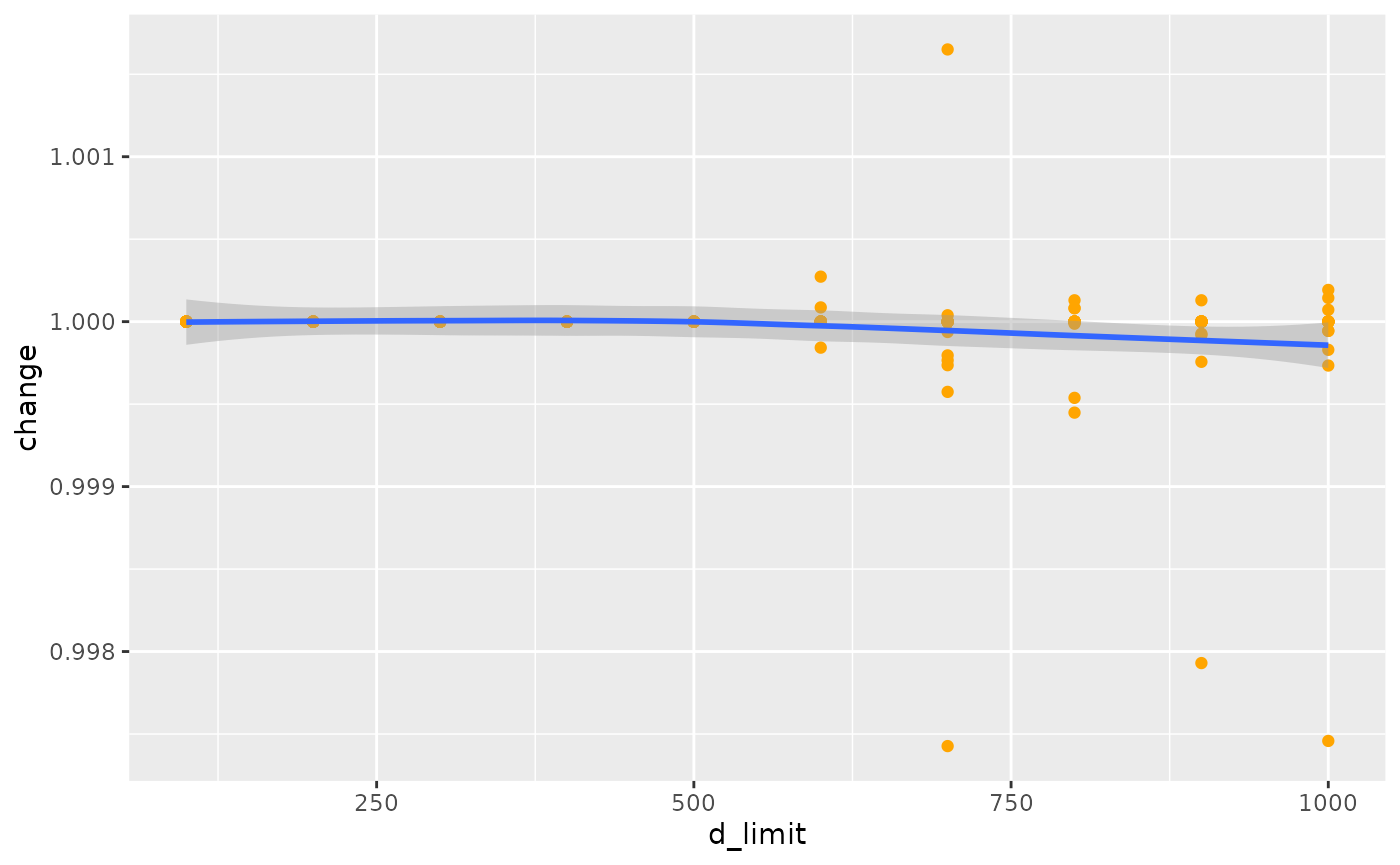
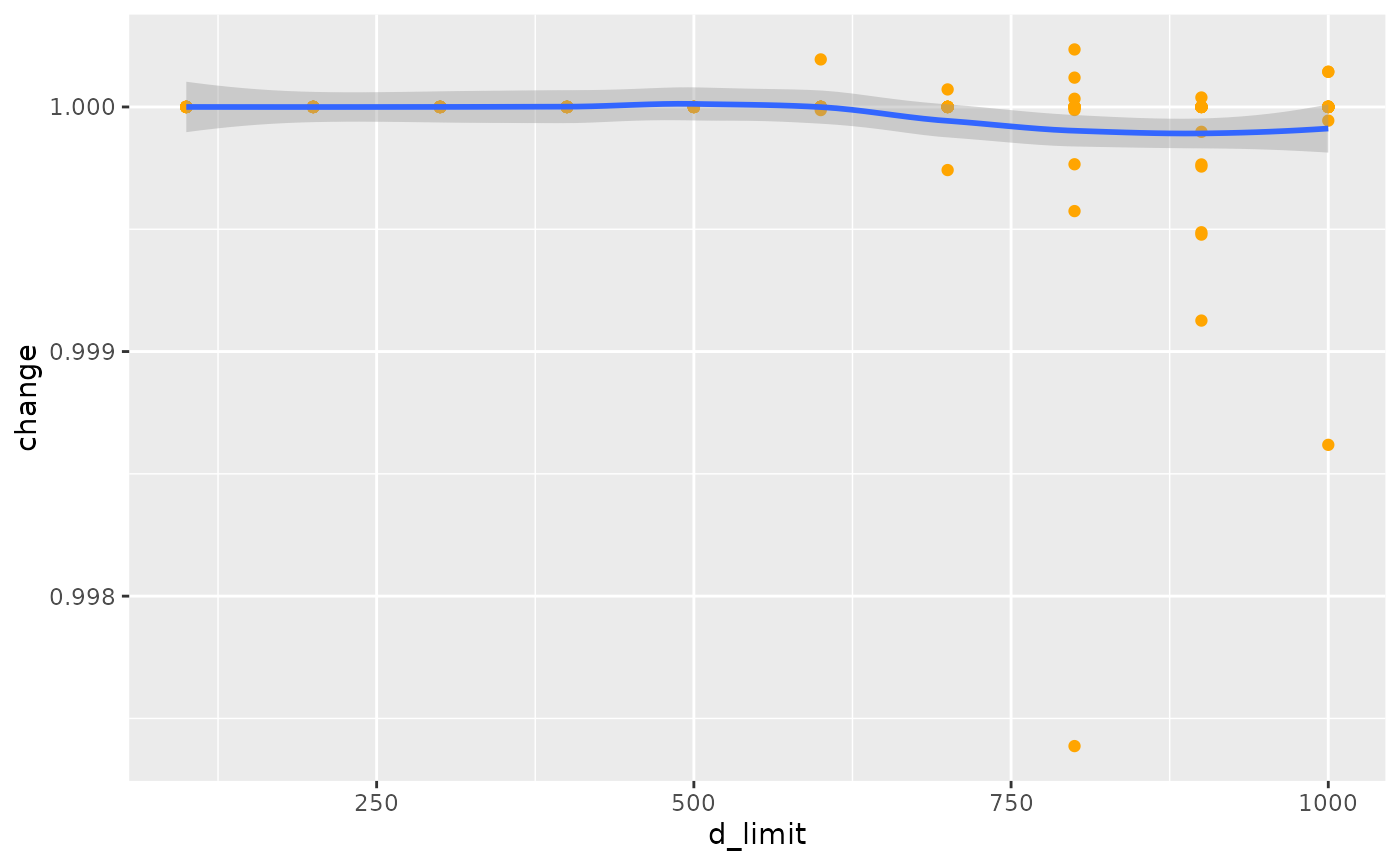
Deploying to gh-pages from @ ATFutures/gtfs-router@f2f3d86d2ee5bc322a3474a039626430a1c90d2c 🚀

diff --git a/docs/articles/traveltimes.html b/docs/articles/traveltimes.html
@@ -33,7 +33,7 @@
       </button>
       <span class="navbar-brand">
         <a class="navbar-link" href="../index.html">gtfsrouter</a>
-        <span class="version label label-default" data-toggle="tooltip" data-placement="bottom" title="">0.0.5.146</span>
+        <span class="version label label-default" data-toggle="tooltip" data-placement="bottom" title="">0.0.5.147</span>
       </span>
     </div>
 
@@ -73,7 +73,7 @@
                         <h4 data-toc-skip class="author">Mark Padgham
 &amp; Alexandra Kapp</h4>
             
-            <h4 data-toc-skip class="date">2023-03-20</h4>
+            <h4 data-toc-skip class="date">2023-03-27</h4>
       
       <small class="dont-index">Source: <a href="https://github.com/ATFutures/gtfs-router/blob/HEAD/vignettes/traveltimes.Rmd" class="external-link"><code>vignettes/traveltimes.Rmd</code></a></small>
       <div class="hidden name"><code>traveltimes.Rmd</code></div>
@@ -101,7 +101,7 @@ function</a>, is necessary prior to calculating travel times.</p>
 <div class="sourceCode" id="cb1"><pre class="downlit sourceCode r">
 <code class="sourceCode R"><span><span class="kw"><a href="https://rdrr.io/r/base/library.html" class="external-link">library</a></span> <span class="op">(</span><span class="va"><a href="https://github.com/ATFutures/gtfs-router" class="external-link">gtfsrouter</a></span><span class="op">)</span></span>
 <span><span class="fu"><a href="../reference/berlin_gtfs_to_zip.html">berlin_gtfs_to_zip</a></span> <span class="op">(</span><span class="op">)</span></span></code></pre></div>
-<pre><code><span><span class="co">## [1] "/tmp/RtmpnKpUtB/vbb.zip"</span></span></code></pre>
+<pre><code><span><span class="co">## [1] "/tmp/RtmpFUBtHW/vbb.zip"</span></span></code></pre>
 <div class="sourceCode" id="cb3"><pre class="downlit sourceCode r">
 <code class="sourceCode R"><span><span class="va">f</span> <span class="op">&lt;-</span> <span class="fu"><a href="https://rdrr.io/r/base/file.path.html" class="external-link">file.path</a></span> <span class="op">(</span><span class="fu"><a href="https://rdrr.io/r/base/tempfile.html" class="external-link">tempdir</a></span> <span class="op">(</span><span class="op">)</span>, <span class="st">"vbb.zip"</span><span class="op">)</span></span>
 <span><span class="va">gtfs</span> <span class="op">&lt;-</span> <span class="fu"><a href="../reference/extract_gtfs.html">extract_gtfs</a></span> <span class="op">(</span><span class="va">f</span>, quiet <span class="op">=</span> <span class="cn">TRUE</span><span class="op">)</span></span>
@@ -142,7 +142,7 @@ necessary.</p>
 traveltimes for the following stations:</p>
 <div class="sourceCode" id="cb6"><pre class="downlit sourceCode r">
 <code class="sourceCode R"><span><span class="fu"><a href="https://rdrr.io/r/base/nrow.html" class="external-link">nrow</a></span> <span class="op">(</span><span class="va">tt</span><span class="op">)</span></span></code></pre></div>
-<pre><code><span><span class="co">## [1] 697</span></span></code></pre>
+<pre><code><span><span class="co">## [1] 689</span></span></code></pre>
 <p>This relatively low number is because the <a href="https://atfutures.github.io/gtfs-router/reference/berlin_gtfs_to_zip.html" class="external-link"><code>berlin_gtfs_to_zip()</code>
 function</a> creates only a small sample portion of a full feed,
 extending over only one hour and containing a small number of stations.
@@ -153,7 +153,7 @@ during these times are:</p>
 <pre><code><span><span class="co">## [1] 957</span></span></code></pre>
 <p>The <a href="https://atfutures.github.io/gtfs-router/reference/gtfs_traveltimes.html" class="external-link"><code>gtfs_traveltimes()</code></a>,
 returns travel times to only a subset of all potentially reachable
-stations (697 instead of 957) for two main reasons. First, not all
+stations (689 instead of 957) for two main reasons. First, not all
 stations may actually be reachable from a given station, and travel
 times will only be returned for those that are. Secondly, the <a href="https://atfutures.github.io/gtfs-router/reference/gtfs_traveltimes.html" class="external-link"><code>gtfs_traveltimes()</code></a>,
 function has an additional parameter, <code>max_traveltime</code>, and

diff --git a/docs/articles/gtfsrouter.html b/docs/articles/gtfsrouter.html
@@ -33,7 +33,7 @@
       </button>
       <span class="navbar-brand">
         <a class="navbar-link" href="../index.html">gtfsrouter</a>
-        <span class="version label label-default" data-toggle="tooltip" data-placement="bottom" title="">0.0.5.146</span>
+        <span class="version label label-default" data-toggle="tooltip" data-placement="bottom" title="">0.0.5.147</span>
       </span>
     </div>
 
@@ -73,7 +73,7 @@
                         <h4 data-toc-skip class="author">Mark
 Padgham</h4>
             
-            <h4 data-toc-skip class="date">2023-03-20</h4>
+            <h4 data-toc-skip class="date">2023-03-27</h4>
       
       <small class="dont-index">Source: <a href="https://github.com/ATFutures/gtfs-router/blob/HEAD/vignettes/gtfsrouter.Rmd" class="external-link"><code>vignettes/gtfsrouter.Rmd</code></a></small>
       <div class="hidden name"><code>gtfsrouter.Rmd</code></div>
@@ -126,7 +126,7 @@ to a locally-stored <code>.zip</code> archive in the
 data can be exported and re-imported with:</p>
 <div class="sourceCode" id="cb1"><pre class="downlit sourceCode r">
 <code class="sourceCode R"><span><span class="fu"><a href="../reference/berlin_gtfs_to_zip.html">berlin_gtfs_to_zip</a></span><span class="op">(</span><span class="op">)</span></span></code></pre></div>
-<pre><code><span><span class="co">## [1] "/tmp/RtmpgyxTjq/vbb.zip"</span></span></code></pre>
+<pre><code><span><span class="co">## [1] "/tmp/RtmpZUaZnz/vbb.zip"</span></span></code></pre>
 <div class="sourceCode" id="cb3"><pre class="downlit sourceCode r">
 <code class="sourceCode R"><span><span class="va">f</span> <span class="op">&lt;-</span> <span class="fu"><a href="https://rdrr.io/r/base/file.path.html" class="external-link">file.path</a></span> <span class="op">(</span><span class="fu"><a href="https://rdrr.io/r/base/tempfile.html" class="external-link">tempdir</a></span> <span class="op">(</span><span class="op">)</span>, <span class="st">"vbb.zip"</span><span class="op">)</span></span>
 <span><span class="fu"><a href="https://rdrr.io/r/base/files.html" class="external-link">file.exists</a></span> <span class="op">(</span><span class="va">f</span><span class="op">)</span></span></code></pre></div>
@@ -365,7 +365,7 @@ data:</p>
 <span>                         to <span class="op">=</span> <span class="va">to</span>,</span>
 <span>                         start_time <span class="op">=</span> <span class="st">"12:00:00"</span><span class="op">)</span><span class="op">)</span></span></code></pre></div>
 <pre><code><span><span class="co">##    user  system elapsed </span></span>
-<span><span class="co">##   0.043   0.000   0.043</span></span></code></pre>
+<span><span class="co">##   0.041   0.000   0.041</span></span></code></pre>
 <p>Note that the <code>day</code> parameter is used to extract the
 timetable, after which it is no longer required in the actual call to
 <code><a href="../reference/gtfs_route.html">gtfs_route()</a></code>.</p>

diff --git a/docs/articles/transfers.html b/docs/articles/transfers.html
@@ -33,7 +33,7 @@
       </button>
       <span class="navbar-brand">
         <a class="navbar-link" href="../index.html">gtfsrouter</a>
-        <span class="version label label-default" data-toggle="tooltip" data-placement="bottom" title="">0.0.5.146</span>
+        <span class="version label label-default" data-toggle="tooltip" data-placement="bottom" title="">0.0.5.147</span>
       </span>
     </div>
 
@@ -73,7 +73,7 @@
                         <h4 data-toc-skip class="author">Mark
 Padgham</h4>
             
-            <h4 data-toc-skip class="date">2023-03-20</h4>
+            <h4 data-toc-skip class="date">2023-03-27</h4>
       
       <small class="dont-index">Source: <a href="https://github.com/ATFutures/gtfs-router/blob/HEAD/vignettes/transfers.Rmd" class="external-link"><code>vignettes/transfers.Rmd</code></a></small>
       <div class="hidden name"><code>transfers.Rmd</code></div>
@@ -594,9 +594,9 @@ range of distance limits.</p>
 <p><img src="transfers_files/figure-html/plot1-1.png" width="700"></p>
 <p>And these additional transfer possibilities can make a significant
 difference to estimated travel times. Note, however, that the travel
-times only changed for 788 stations, while the value of
+times only changed for 384 stations, while the value of
 <code>nsame</code> value recording numbers of stations for which travel
-times did not change was 3,765. Travel times may also increase as
+times did not change was 4,780. Travel times may also increase as
 additional transfers may be used to reduce numbers of connecting
 services required for a particular trip, and the algorithm generally
 searches for connections with minimal numbers of transfers.</p>
@@ -678,7 +678,7 @@ limits of maximal transfer distance, although the overall effect is very
 minimal. The object <code>d</code> also records the proportion of
 station pairs for which modifications to the transfers table actually
 changed travel times, which in this case amounts to a mean value of
-0.001, clearly revealing that very few trips actually change.</p>
+6^{-4}, clearly revealing that very few trips actually change.</p>
 <div class="section level3">
 <h3 id="a-more-realistic-example">A more realistic example<a class="anchor" aria-label="anchor" href="#a-more-realistic-example"></a>
 </h3>

diff --git a/docs/reference/gtfs_transfer_table.html b/docs/reference/gtfs_transfer_table.html
@@ -17,7 +17,7 @@
       </button>
       <span class="navbar-brand">
         <a class="navbar-link" href="../index.html">gtfsrouter</a>
-        <span class="version label label-default" data-toggle="tooltip" data-placement="bottom" title="">0.0.5.146</span>
+        <span class="version label label-default" data-toggle="tooltip" data-placement="bottom" title="">0.0.5.147</span>
       </span>
     </div>
 
@@ -113,7 +113,7 @@ provided, this parameter is automatically set to <code>TRUE</code>.</p></dd>
     <div id="ref-examples">
     <h2>Examples</h2>
     <div class="sourceCode"><pre class="sourceCode r"><code><span class="r-in"><span><span class="fu"><a href="berlin_gtfs_to_zip.html">berlin_gtfs_to_zip</a></span> <span class="op">(</span><span class="op">)</span></span></span>
-<span class="r-out co"><span class="r-pr">#&gt;</span> [1] "/tmp/RtmpqhHMCB/vbb.zip"</span>
+<span class="r-out co"><span class="r-pr">#&gt;</span> [1] "/tmp/RtmpmnOG4Z/vbb.zip"</span>
 <span class="r-in"><span><span class="va">f</span> <span class="op">&lt;-</span> <span class="fu"><a href="https://rdrr.io/r/base/file.path.html" class="external-link">file.path</a></span> <span class="op">(</span><span class="fu"><a href="https://rdrr.io/r/base/tempfile.html" class="external-link">tempdir</a></span> <span class="op">(</span><span class="op">)</span>, <span class="st">"vbb.zip"</span><span class="op">)</span></span></span>
 <span class="r-in"><span><span class="va">g</span> <span class="op">&lt;-</span> <span class="fu"><a href="extract_gtfs.html">extract_gtfs</a></span> <span class="op">(</span><span class="va">f</span>, quiet <span class="op">=</span> <span class="cn">TRUE</span><span class="op">)</span></span></span>
 <span class="r-in"><span><span class="va">g</span> <span class="op">&lt;-</span> <span class="fu">gtfs_transfer_table</span> <span class="op">(</span><span class="va">g</span>, d_limit <span class="op">=</span> <span class="fl">200</span><span class="op">)</span></span></span>

diff --git a/docs/reference/gtfs_route.html b/docs/reference/gtfs_route.html
@@ -18,7 +18,7 @@ a specified time."><!-- mathjax --><script src="https://cdnjs.cloudflare.com/aja
       </button>
       <span class="navbar-brand">
         <a class="navbar-link" href="../index.html">gtfsrouter</a>
-        <span class="version label label-default" data-toggle="tooltip" data-placement="bottom" title="">0.0.5.146</span>
+        <span class="version label label-default" data-toggle="tooltip" data-placement="bottom" title="">0.0.5.147</span>
       </span>
     </div>
 
@@ -182,7 +182,7 @@ can be calculated by setting <code>earliest_arrival = FALSE</code>.</p>
     <div id="ref-examples">
     <h2>Examples</h2>
     <div class="sourceCode"><pre class="sourceCode r"><code><span class="r-in"><span><span class="fu"><a href="berlin_gtfs_to_zip.html">berlin_gtfs_to_zip</a></span> <span class="op">(</span><span class="op">)</span> <span class="co"># Write sample feed from Berlin, Germany to tempdir</span></span></span>
-<span class="r-out co"><span class="r-pr">#&gt;</span> [1] "/tmp/RtmpqhHMCB/vbb.zip"</span>
+<span class="r-out co"><span class="r-pr">#&gt;</span> [1] "/tmp/RtmpmnOG4Z/vbb.zip"</span>
 <span class="r-in"><span><span class="va">f</span> <span class="op">&lt;-</span> <span class="fu"><a href="https://rdrr.io/r/base/file.path.html" class="external-link">file.path</a></span> <span class="op">(</span><span class="fu"><a href="https://rdrr.io/r/base/tempfile.html" class="external-link">tempdir</a></span> <span class="op">(</span><span class="op">)</span>, <span class="st">"vbb.zip"</span><span class="op">)</span> <span class="co"># name of feed</span></span></span>
 <span class="r-in"><span><span class="va">gtfs</span> <span class="op">&lt;-</span> <span class="fu"><a href="extract_gtfs.html">extract_gtfs</a></span> <span class="op">(</span><span class="va">f</span><span class="op">)</span></span></span>
 <span class="r-msg co"><span class="r-pr">#&gt;</span> ▶<span style="color: #00BB00;"> Unzipping GTFS archive</span></span>

diff --git a/docs/reference/berlin_gtfs.html b/docs/reference/berlin_gtfs.html
@@ -23,7 +23,7 @@ characters.'><!-- mathjax --><script src="https://cdnjs.cloudflare.com/ajax/libs
       </button>
       <span class="navbar-brand">
         <a class="navbar-link" href="../index.html">gtfsrouter</a>
-        <span class="version label label-default" data-toggle="tooltip" data-placement="bottom" title="">0.0.5.146</span>
+        <span class="version label label-default" data-toggle="tooltip" data-placement="bottom" title="">0.0.5.147</span>
       </span>
     </div>
 
@@ -96,7 +96,7 @@ for which no route is possible return <code>NULL</code>.</p>
     <div id="ref-examples">
     <h2>Examples</h2>
     <div class="sourceCode"><pre class="sourceCode r"><code><span class="r-in"><span><span class="fu"><a href="berlin_gtfs_to_zip.html">berlin_gtfs_to_zip</a></span> <span class="op">(</span><span class="op">)</span> <span class="co"># Write sample feed from Berlin, Germany to tempdir</span></span></span>
-<span class="r-out co"><span class="r-pr">#&gt;</span> [1] "/tmp/RtmpqhHMCB/vbb.zip"</span>
+<span class="r-out co"><span class="r-pr">#&gt;</span> [1] "/tmp/RtmpmnOG4Z/vbb.zip"</span>
 <span class="r-in"><span><span class="va">f</span> <span class="op">&lt;-</span> <span class="fu"><a href="https://rdrr.io/r/base/file.path.html" class="external-link">file.path</a></span> <span class="op">(</span><span class="fu"><a href="https://rdrr.io/r/base/tempfile.html" class="external-link">tempdir</a></span> <span class="op">(</span><span class="op">)</span>, <span class="st">"vbb.zip"</span><span class="op">)</span> <span class="co"># name of feed</span></span></span>
 <span class="r-in"><span><span class="va">gtfs</span> <span class="op">&lt;-</span> <span class="fu"><a href="extract_gtfs.html">extract_gtfs</a></span> <span class="op">(</span><span class="va">f</span><span class="op">)</span></span></span>
 <span class="r-msg co"><span class="r-pr">#&gt;</span> ▶<span style="color: #00BB00;"> Unzipping GTFS archive</span></span>

diff --git a/docs/reference/gtfs_timetable.html b/docs/reference/gtfs_timetable.html
@@ -17,7 +17,7 @@
       </button>
       <span class="navbar-brand">
         <a class="navbar-link" href="../index.html">gtfsrouter</a>
-        <span class="version label label-default" data-toggle="tooltip" data-placement="bottom" title="">0.0.5.146</span>
+        <span class="version label label-default" data-toggle="tooltip" data-placement="bottom" title="">0.0.5.147</span>
       </span>
     </div>
 
@@ -126,7 +126,7 @@ that case will generally take longer.</p>
     <div id="ref-examples">
     <h2>Examples</h2>
     <div class="sourceCode"><pre class="sourceCode r"><code><span class="r-in"><span><span class="fu"><a href="berlin_gtfs_to_zip.html">berlin_gtfs_to_zip</a></span> <span class="op">(</span><span class="op">)</span> <span class="co"># Write sample feed from Berlin, Germany to tempdir</span></span></span>
-<span class="r-out co"><span class="r-pr">#&gt;</span> [1] "/tmp/RtmpqhHMCB/vbb.zip"</span>
+<span class="r-out co"><span class="r-pr">#&gt;</span> [1] "/tmp/RtmpmnOG4Z/vbb.zip"</span>
 <span class="r-in"><span><span class="va">f</span> <span class="op">&lt;-</span> <span class="fu"><a href="https://rdrr.io/r/base/file.path.html" class="external-link">file.path</a></span> <span class="op">(</span><span class="fu"><a href="https://rdrr.io/r/base/tempfile.html" class="external-link">tempdir</a></span> <span class="op">(</span><span class="op">)</span>, <span class="st">"vbb.zip"</span><span class="op">)</span> <span class="co"># name of feed</span></span></span>
 <span class="r-in"><span><span class="va">gtfs</span> <span class="op">&lt;-</span> <span class="fu"><a href="extract_gtfs.html">extract_gtfs</a></span> <span class="op">(</span><span class="va">f</span><span class="op">)</span></span></span>
 <span class="r-msg co"><span class="r-pr">#&gt;</span> ▶<span style="color: #00BB00;"> Unzipping GTFS archive</span></span>

diff --git a/docs/reference/gtfs_traveltimes.html b/docs/reference/gtfs_traveltimes.html
@@ -18,7 +18,7 @@ other reachable station in a system."><!-- mathjax --><script src="https://cdnjs
       </button>
       <span class="navbar-brand">
         <a class="navbar-link" href="../index.html">gtfsrouter</a>
-        <span class="version label label-default" data-toggle="tooltip" data-placement="bottom" title="">0.0.5.146</span>
+        <span class="version label label-default" data-toggle="tooltip" data-placement="bottom" title="">0.0.5.147</span>
       </span>
     </div>
 
@@ -155,7 +155,7 @@ to reach all or most stations desired for a particular query, rather than set
     <div id="ref-examples">
     <h2>Examples</h2>
     <div class="sourceCode"><pre class="sourceCode r"><code><span class="r-in"><span><span class="fu"><a href="berlin_gtfs_to_zip.html">berlin_gtfs_to_zip</a></span> <span class="op">(</span><span class="op">)</span></span></span>
-<span class="r-out co"><span class="r-pr">#&gt;</span> [1] "/tmp/RtmpqhHMCB/vbb.zip"</span>
+<span class="r-out co"><span class="r-pr">#&gt;</span> [1] "/tmp/RtmpmnOG4Z/vbb.zip"</span>
 <span class="r-in"><span><span class="va">f</span> <span class="op">&lt;-</span> <span class="fu"><a href="https://rdrr.io/r/base/file.path.html" class="external-link">file.path</a></span> <span class="op">(</span><span class="fu"><a href="https://rdrr.io/r/base/tempfile.html" class="external-link">tempdir</a></span> <span class="op">(</span><span class="op">)</span>, <span class="st">"vbb.zip"</span><span class="op">)</span></span></span>
 <span class="r-in"><span><span class="va">g</span> <span class="op">&lt;-</span> <span class="fu"><a href="extract_gtfs.html">extract_gtfs</a></span> <span class="op">(</span><span class="va">f</span><span class="op">)</span></span></span>
 <span class="r-msg co"><span class="r-pr">#&gt;</span> ▶<span style="color: #00BB00;"> Unzipping GTFS archive</span></span>

diff --git a/docs/reference/extract_gtfs.html b/docs/reference/extract_gtfs.html
@@ -17,7 +17,7 @@
       </button>
       <span class="navbar-brand">
         <a class="navbar-link" href="../index.html">gtfsrouter</a>
-        <span class="version label label-default" data-toggle="tooltip" data-placement="bottom" title="">0.0.5.146</span>
+        <span class="version label label-default" data-toggle="tooltip" data-placement="bottom" title="">0.0.5.147</span>
       </span>
     </div>
 
@@ -102,7 +102,7 @@ function to the two time columns of the "stop_times" table.</p>
     <div id="ref-examples">
     <h2>Examples</h2>
     <div class="sourceCode"><pre class="sourceCode r"><code><span class="r-in"><span><span class="fu"><a href="berlin_gtfs_to_zip.html">berlin_gtfs_to_zip</a></span> <span class="op">(</span><span class="op">)</span> <span class="co"># Write sample feed from Berlin, Germany to tempdir</span></span></span>
-<span class="r-out co"><span class="r-pr">#&gt;</span> [1] "/tmp/RtmpqhHMCB/vbb.zip"</span>
+<span class="r-out co"><span class="r-pr">#&gt;</span> [1] "/tmp/RtmpmnOG4Z/vbb.zip"</span>
 <span class="r-in"><span><span class="va">f</span> <span class="op">&lt;-</span> <span class="fu"><a href="https://rdrr.io/r/base/file.path.html" class="external-link">file.path</a></span> <span class="op">(</span><span class="fu"><a href="https://rdrr.io/r/base/tempfile.html" class="external-link">tempdir</a></span> <span class="op">(</span><span class="op">)</span>, <span class="st">"vbb.zip"</span><span class="op">)</span> <span class="co"># name of feed</span></span></span>
 <span class="r-in"><span><span class="va">gtfs</span> <span class="op">&lt;-</span> <span class="fu">extract_gtfs</span> <span class="op">(</span><span class="va">f</span><span class="op">)</span></span></span>
 <span class="r-msg co"><span class="r-pr">#&gt;</span> ▶<span style="color: #00BB00;"> Unzipping GTFS archive</span></span>

diff --git a/docs/reference/summary.gtfs.html b/docs/reference/summary.gtfs.html
@@ -17,7 +17,7 @@
       </button>
       <span class="navbar-brand">
         <a class="navbar-link" href="../index.html">gtfsrouter</a>
-        <span class="version label label-default" data-toggle="tooltip" data-placement="bottom" title="">0.0.5.146</span>
+        <span class="version label label-default" data-toggle="tooltip" data-placement="bottom" title="">0.0.5.147</span>
       </span>
     </div>
 
@@ -81,7 +81,7 @@
     <div id="ref-examples">
     <h2>Examples</h2>
     <div class="sourceCode"><pre class="sourceCode r"><code><span class="r-in"><span><span class="fu"><a href="berlin_gtfs_to_zip.html">berlin_gtfs_to_zip</a></span> <span class="op">(</span><span class="op">)</span></span></span>
-<span class="r-out co"><span class="r-pr">#&gt;</span> [1] "/tmp/RtmpqhHMCB/vbb.zip"</span>
+<span class="r-out co"><span class="r-pr">#&gt;</span> [1] "/tmp/RtmpmnOG4Z/vbb.zip"</span>
 <span class="r-in"><span><span class="va">f</span> <span class="op">&lt;-</span> <span class="fu"><a href="https://rdrr.io/r/base/file.path.html" class="external-link">file.path</a></span> <span class="op">(</span><span class="fu"><a href="https://rdrr.io/r/base/tempfile.html" class="external-link">tempdir</a></span> <span class="op">(</span><span class="op">)</span>, <span class="st">"vbb.zip"</span><span class="op">)</span></span></span>
 <span class="r-in"><span><span class="va">g</span> <span class="op">&lt;-</span> <span class="fu"><a href="extract_gtfs.html">extract_gtfs</a></span> <span class="op">(</span><span class="va">f</span><span class="op">)</span></span></span>
 <span class="r-msg co"><span class="r-pr">#&gt;</span> ▶<span style="color: #00BB00;"> Unzipping GTFS archive</span></span>

diff --git a/docs/authors.html b/docs/authors.html
@@ -17,7 +17,7 @@
       </button>
       <span class="navbar-brand">
         <a class="navbar-link" href="index.html">gtfsrouter</a>
-        <span class="version label label-default" data-toggle="tooltip" data-placement="bottom" title="">0.0.5.146</span>
+        <span class="version label label-default" data-toggle="tooltip" data-placement="bottom" title="">0.0.5.147</span>
       </span>
     </div>
 
@@ -74,13 +74,13 @@
 
     <p>Padgham M, Stepniak M (2023).
 <em>gtfsrouter: Routing with GTFS (General Transit Feed Specification) Data</em>.
-R package version 0.0.5.146, <a href="https://github.com/ATFutures/gtfs-router" class="external-link">https://github.com/ATFutures/gtfs-router</a>. 
+R package version 0.0.5.147, <a href="https://github.com/ATFutures/gtfs-router" class="external-link">https://github.com/ATFutures/gtfs-router</a>. 
 </p>
     <pre>@Manual{,
   title = {gtfsrouter: Routing with GTFS (General Transit Feed Specification) Data},
   author = {Mark Padgham and Marcin Stepniak},
   year = {2023},
-  note = {R package version 0.0.5.146},
+  note = {R package version 0.0.5.147},
   url = {https://github.com/ATFutures/gtfs-router},
 }</pre>
 

diff --git a/docs/reference/berlin_gtfs_to_zip.html b/docs/reference/berlin_gtfs_to_zip.html
@@ -18,7 +18,7 @@ a file named "vbb.zip" to tempdir().'><!-- mathjax --><script src="https://cdnjs
       </button>
       <span class="navbar-brand">
         <a class="navbar-link" href="../index.html">gtfsrouter</a>
-        <span class="version label label-default" data-toggle="tooltip" data-placement="bottom" title="">0.0.5.146</span>
+        <span class="version label label-default" data-toggle="tooltip" data-placement="bottom" title="">0.0.5.147</span>
       </span>
     </div>
 
